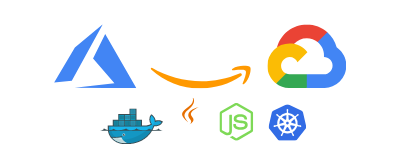
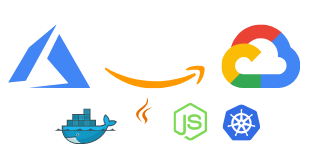
Update responsive design in LG

diff --git a/resources/css/custom.css b/resources/css/custom.css
@@ -1,6 +1,22 @@
-@media only screen and (max-width: 1366px) {
+/* Extra small devices (phones, less than 768px) */
+/* No media query since this is the default in Bootstrap */
+
+/* Small devices (tablets, 768px and up) */
+@media (max-width: 768px) {
     #section0 {
         background-image: url("../images/1366/cloudcito.png");
+        background-size: 100%;
+
+    }
+
+}
+
+/* Medium devices (desktops, 992px and up) */
+@media screen and (max-width: 1366px) {
+    #section0 {
+        background-image: url("../images/1366/cloudcito.png");
+        background-size: 100%;
+
     }
     #section1{
         background-image: url("../images/1366/cloudcito2.png");
@@ -77,12 +93,18 @@
     .icon-size{
         font-size:2em
     }
-
 }
 
-@media only screen and (min-width: 1366px) and (max-width: 2048px) {
+/* Large devices (large desktops, 1200px and up) */
+@media screen and (min-width: 1440px) {
     #section0 {
-        background-image: url("../images/2048/cloudcito.png");
+        background: url(../images/2048/cloudcito.png) no-repeat center center fixed;
+        -webkit-background-size: cover;
+        /* For WebKit*/ -moz-background-size: cover;
+        /* Mozilla*/ -o-background-size: cover;
+        /* Opera*/ background-size: cover;
+        /* Generic*/
+
     }
     #section1{
         background-image: url("../images/2048/cloudcito.png");
@@ -152,7 +174,6 @@
     .icon-size{
         font-size:5em
     }
-
 }
 
 #main-navbar ul li a,

diff --git a/index.html b/index.html
@@ -2,6 +2,8 @@
 
 <head>
     <title>Alejandro Ruiz - Official WebSite</title>
+    <meta name="viewport" content="width=device-width, initial-scale=1">
+
     <!--LIBRERIAS CSS -->
     <link rel="stylesheet" href="https://cdn.rawgit.com/alvarotrigo/fullPage.js/9ad42556/jquery.fullPage.css">
     <link rel="stylesheet" type="text/css" href="style.css">
@@ -11,7 +13,6 @@
     <link rel="stylesheet" type="text/css" href="resources/css/aquamarine.css">
     <link rel="stylesheet" href="resources/css/stylesheet.css" type="text/css" charset="utf-8"/>
     <link rel="stylesheet" type="text/css" href="resources/css/custom.css">
-
 
     <!-- Script: Make my navbar transparent when the document is scrolled to top -->
     <script src="resources/js/navbar-ontop.js"></script>
@@ -71,7 +72,7 @@
                 <p class="text-primary font-subtitle">CLOUD ENGINEER | DEVOPS</p>
                 <p class="display-5 text-info font-text-info">Senior Engineer and DevOps with 5+ years of experience integrating cloud
                     platforms</p>
-                <div><img class="d-block ml-4 stack-photo" src="resources/images/2048/ts.png" alt="Profile"></div>
+                <div><img class="d-block stack-photo mx-auto" src="resources/images/2048/ts.png" alt="Profile"></div>
         </div>
             <div class="col-md-4 mr-md-1 pr-md-2">
                 <div class="col-md-6">
